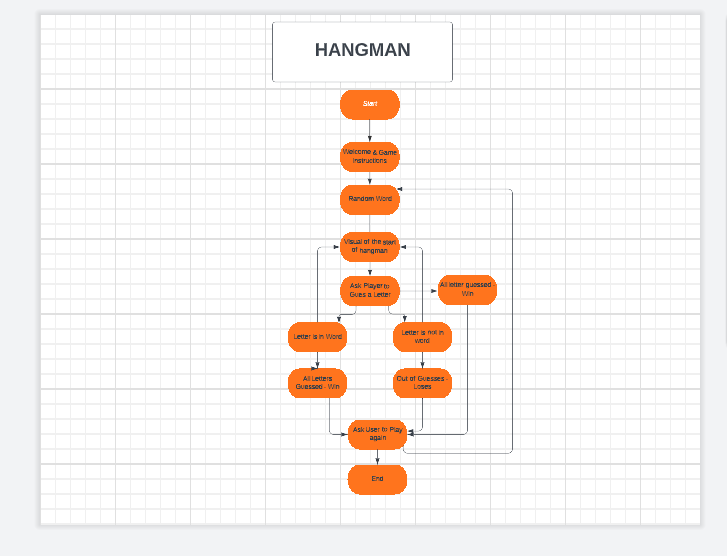
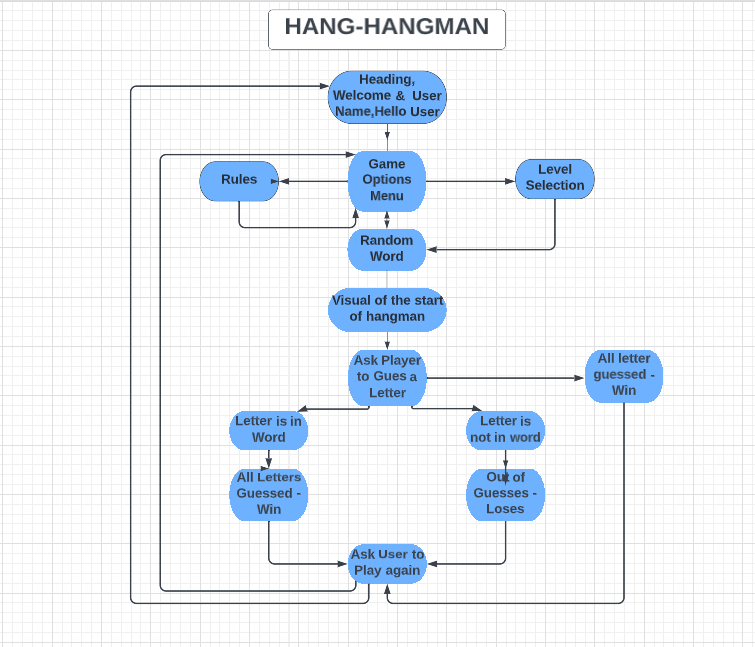
Add images to readmeimages and update readme file

Changed region(s): [[0.0303, 0.0, 0.9684, 0.9478], [0.9986, 0.0306, 1.0, 0.6421]]

diff --git a/README.md b/README.md
@@ -5,15 +5,15 @@ The user will be given the game rules , a level choice to play the game at Easy 
 The user can try to guess the word by inputting letters, if the letter is wrong a visual of the traditional hangman man will start to appear, if the letter is in the word the letter is shown and another guess can be made. Until either all lives are used or the game is won.
 The aim is to supply a fun word guessing game to the user.
 
-![amiresponsive]()
+![amiresponsive](./assest/readmeimages/hangman-amiresponsive.png)
 
 # Planning Of Hang-Hangman
 
 * When Planning what I thought about and wanted in the game.
 
-  + What I wanted the user to see and be able to do .
-  + What I wanted the user not to be able to see but the program to do .
-  + I wanted the game to be easy to use have easy to folow instructions with a logical flow to the  game.
+  + The user to see and be able to do .
+  + The user not to be able to see but the program to do .
+  + The game to be easy to use have easy to folow instructions with a logical flow to the  game.
   + I wanted the game to give feed back to the user if the instructions where not followed correctly or if incorrect information was input by accident.
   + I wanted the game to have a bit of color to it to give it a more fun look and to show with the colours instuctions , correct input and incorrect input.
 
@@ -33,11 +33,42 @@ The aim is to supply a fun word guessing game to the user.
   + Where to give user feed back.
   + Where to give choices and direct of game from those choices.
   + Check the logic of the game lay out in order to code accordingly.
- 
+ * Note : The flow chart was rough and for me to work from and does not show all the code but assisted me in how I needed to start to code and how the code should flow
 
 ![hangman-flowchart](./assest/readmeimages/hangman-flowchart.png)
 
 # Features
+
+  * Current Features
+
+   * Terminal Pages in Order of game Flow
+
+      + Heading Log
+      + Welcome
+      + User Name Request
+      + Input Space shown
+
+  ![1stTerminalpg](./assest/readmeimages/hangman-1stterminalpg.png)
+
+  * Note once the User Enters user name it triggers the option menu to be shown 
+
+      + Users Name Entered
+      + Hello "Users Name"
+      + Options Menu shown
+      + Input Space shown
+
+  ![2ndTerminalpg](./assest/readmeimages/hangman-2ndterminalpg.png) 
+
+  * Note on option selection it will trigger the selection to start 
+    * Option 1 = Default Game Level to start   
+
+      + 1 Input by user 
+      + Game Deault level starts Lives shown
+      + The word to Guess 
+      + Guess a letter
+      + Input Space Shown
+
+  ![options1](./assest/readmeimages/hangman-options1pg1.png)  
 
 # Introduction and Welcome
 
